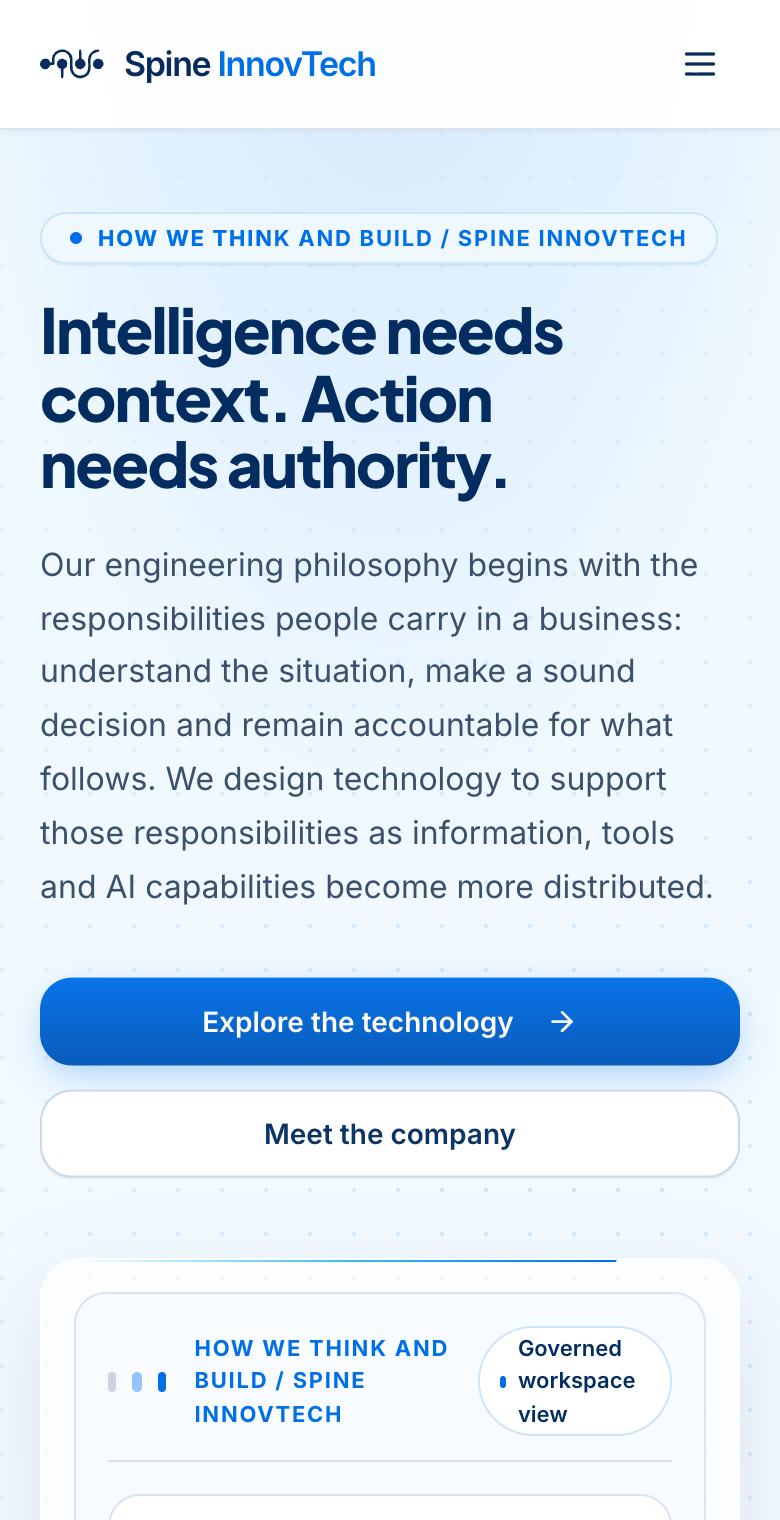
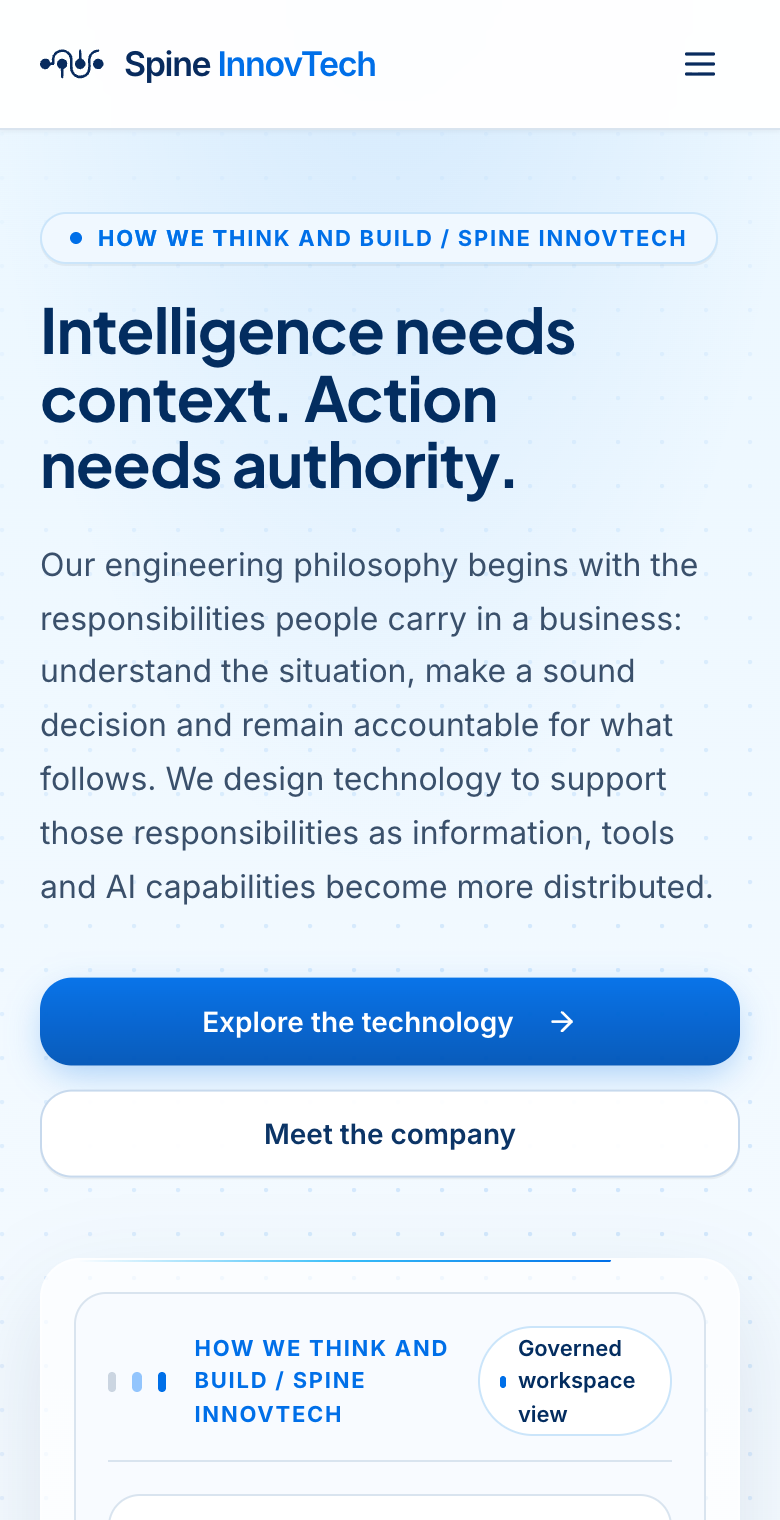
fix(marketing): loosen hero tracking, unify homepage product H2
Conductor review: at 800/-0.03em the hero H1 was too tight — word gaps
nearly closed and the final period looked detached.

- Hero H1 (home + shared PageHero): weight 800 -> 700, tracking -> -0.015em
  via a scoped `main h1.font-display` rule that beats the generic
  marketing-title -0.03em default. Clear word spaces; period attached.
- Homepage product headline H2 (corporate-orbital-hero): apply the same
  --font-display face at weight 700 / -0.015em so it no longer clashes as
  Inter Black beside a Jakarta H1. No other H2 changes.
- Size, colour (#032D60 H1 / #002B64 H2) and line-height unchanged.

Regenerated before/after screenshots at 1440 and 390 under
docs/design-review/hero-font.

Changed region(s): [[0.0923, 0.1855, 0.7385, 0.3401], [0.0615, 0.2164, 0.0923, 0.2474]]

diff --git a/components/marketing/innovlabs-home.tsx b/components/marketing/innovlabs-home.tsx
@@ -31,7 +31,7 @@ export function InnovLabsHome() {
               </p>
             </BlurFade>
             <BlurFade delay={0.06} inView>
-              <h1 id="company-title" className="font-display mt-4 text-[length:min(clamp(2.5rem,4.8vw,4.2rem),var(--marketing-title-size))] font-extrabold leading-[1.08] tracking-[-.025em] text-[#032D60]">
+              <h1 id="company-title" className="font-display mt-4 text-[length:min(clamp(2.5rem,4.8vw,4.2rem),var(--marketing-title-size))] font-bold leading-[1.08] tracking-[-.015em] text-[#032D60]">
                 We build the foundation for connected business work.
               </h1>
             </BlurFade>

diff --git a/components/marketing/page-hero.tsx b/components/marketing/page-hero.tsx
@@ -170,7 +170,7 @@ export function PageHero({
             ) : null}
 
             <BlurFade delay={0.06} inView>
-              <h1 className="font-display max-w-full whitespace-pre-line text-balance text-[#032D60] text-[length:min(clamp(2.25rem,4.4vw,3.5rem),var(--marketing-title-size))] font-extrabold leading-[1.08] tracking-[-0.025em]">
+              <h1 className="font-display max-w-full whitespace-pre-line text-balance text-[#032D60] text-[length:min(clamp(2.25rem,4.4vw,3.5rem),var(--marketing-title-size))] font-bold leading-[1.08] tracking-[-0.015em]">
                 {headline}
               </h1>
             </BlurFade>

diff --git a/components/marketing/corporate-orbital-hero.tsx b/components/marketing/corporate-orbital-hero.tsx
@@ -37,7 +37,7 @@ export function CorporateOrbitalHero({ className = "" }: CorporateOrbitalHeroPro
             </span>
           </div>
 
-          <h2 className="text-2xl sm:text-3xl lg:text-[34px] font-black text-[#002B64] tracking-tight leading-[1.12] mb-3">
+          <h2 className="font-display text-2xl sm:text-3xl lg:text-[34px] font-bold text-[#002B64] tracking-[-0.015em] leading-[1.12] mb-3">
             The governed workbench where humans and AI move business context and work forward.
           </h2>
 

diff --git a/app/globals.css b/app/globals.css
@@ -55,6 +55,13 @@ main h2[class*="--marketing-heading-size"] {
   letter-spacing: -0.03em;
 }
 
+/* Hero display headings (Plus Jakarta Sans) read looser than the Inter default:
+   keep clear word spaces at large sizes. Beats the generic rule above. */
+main h1.font-display,
+main h2.font-display {
+  letter-spacing: -0.015em;
+}
+
 html[data-theme="light"] {
   color-scheme: light;
 }
